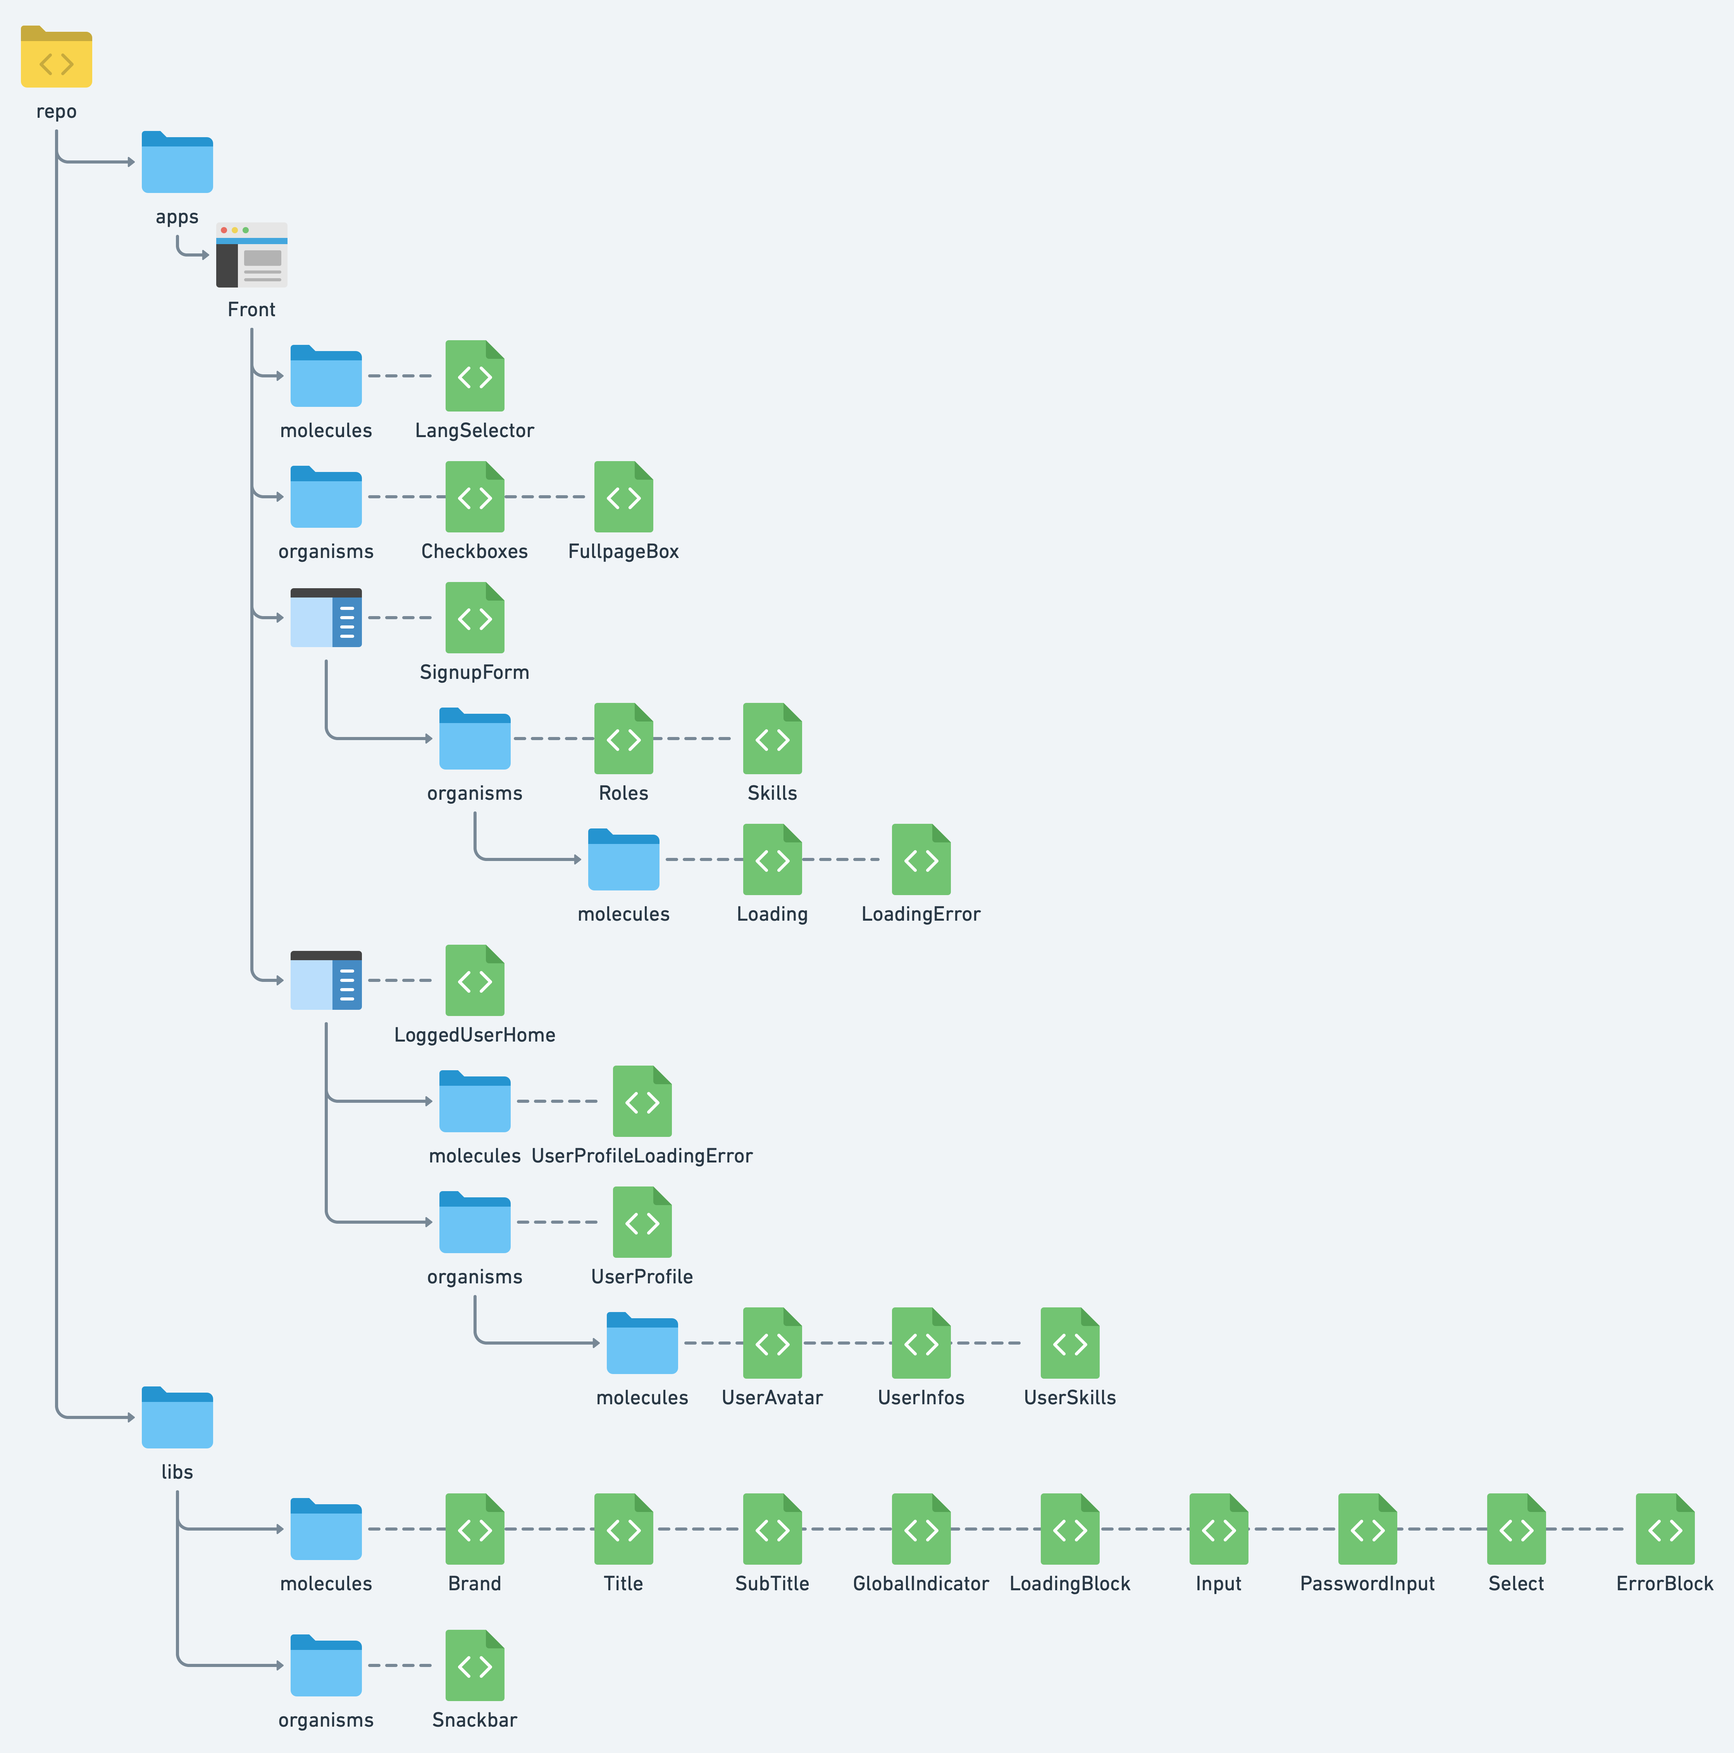
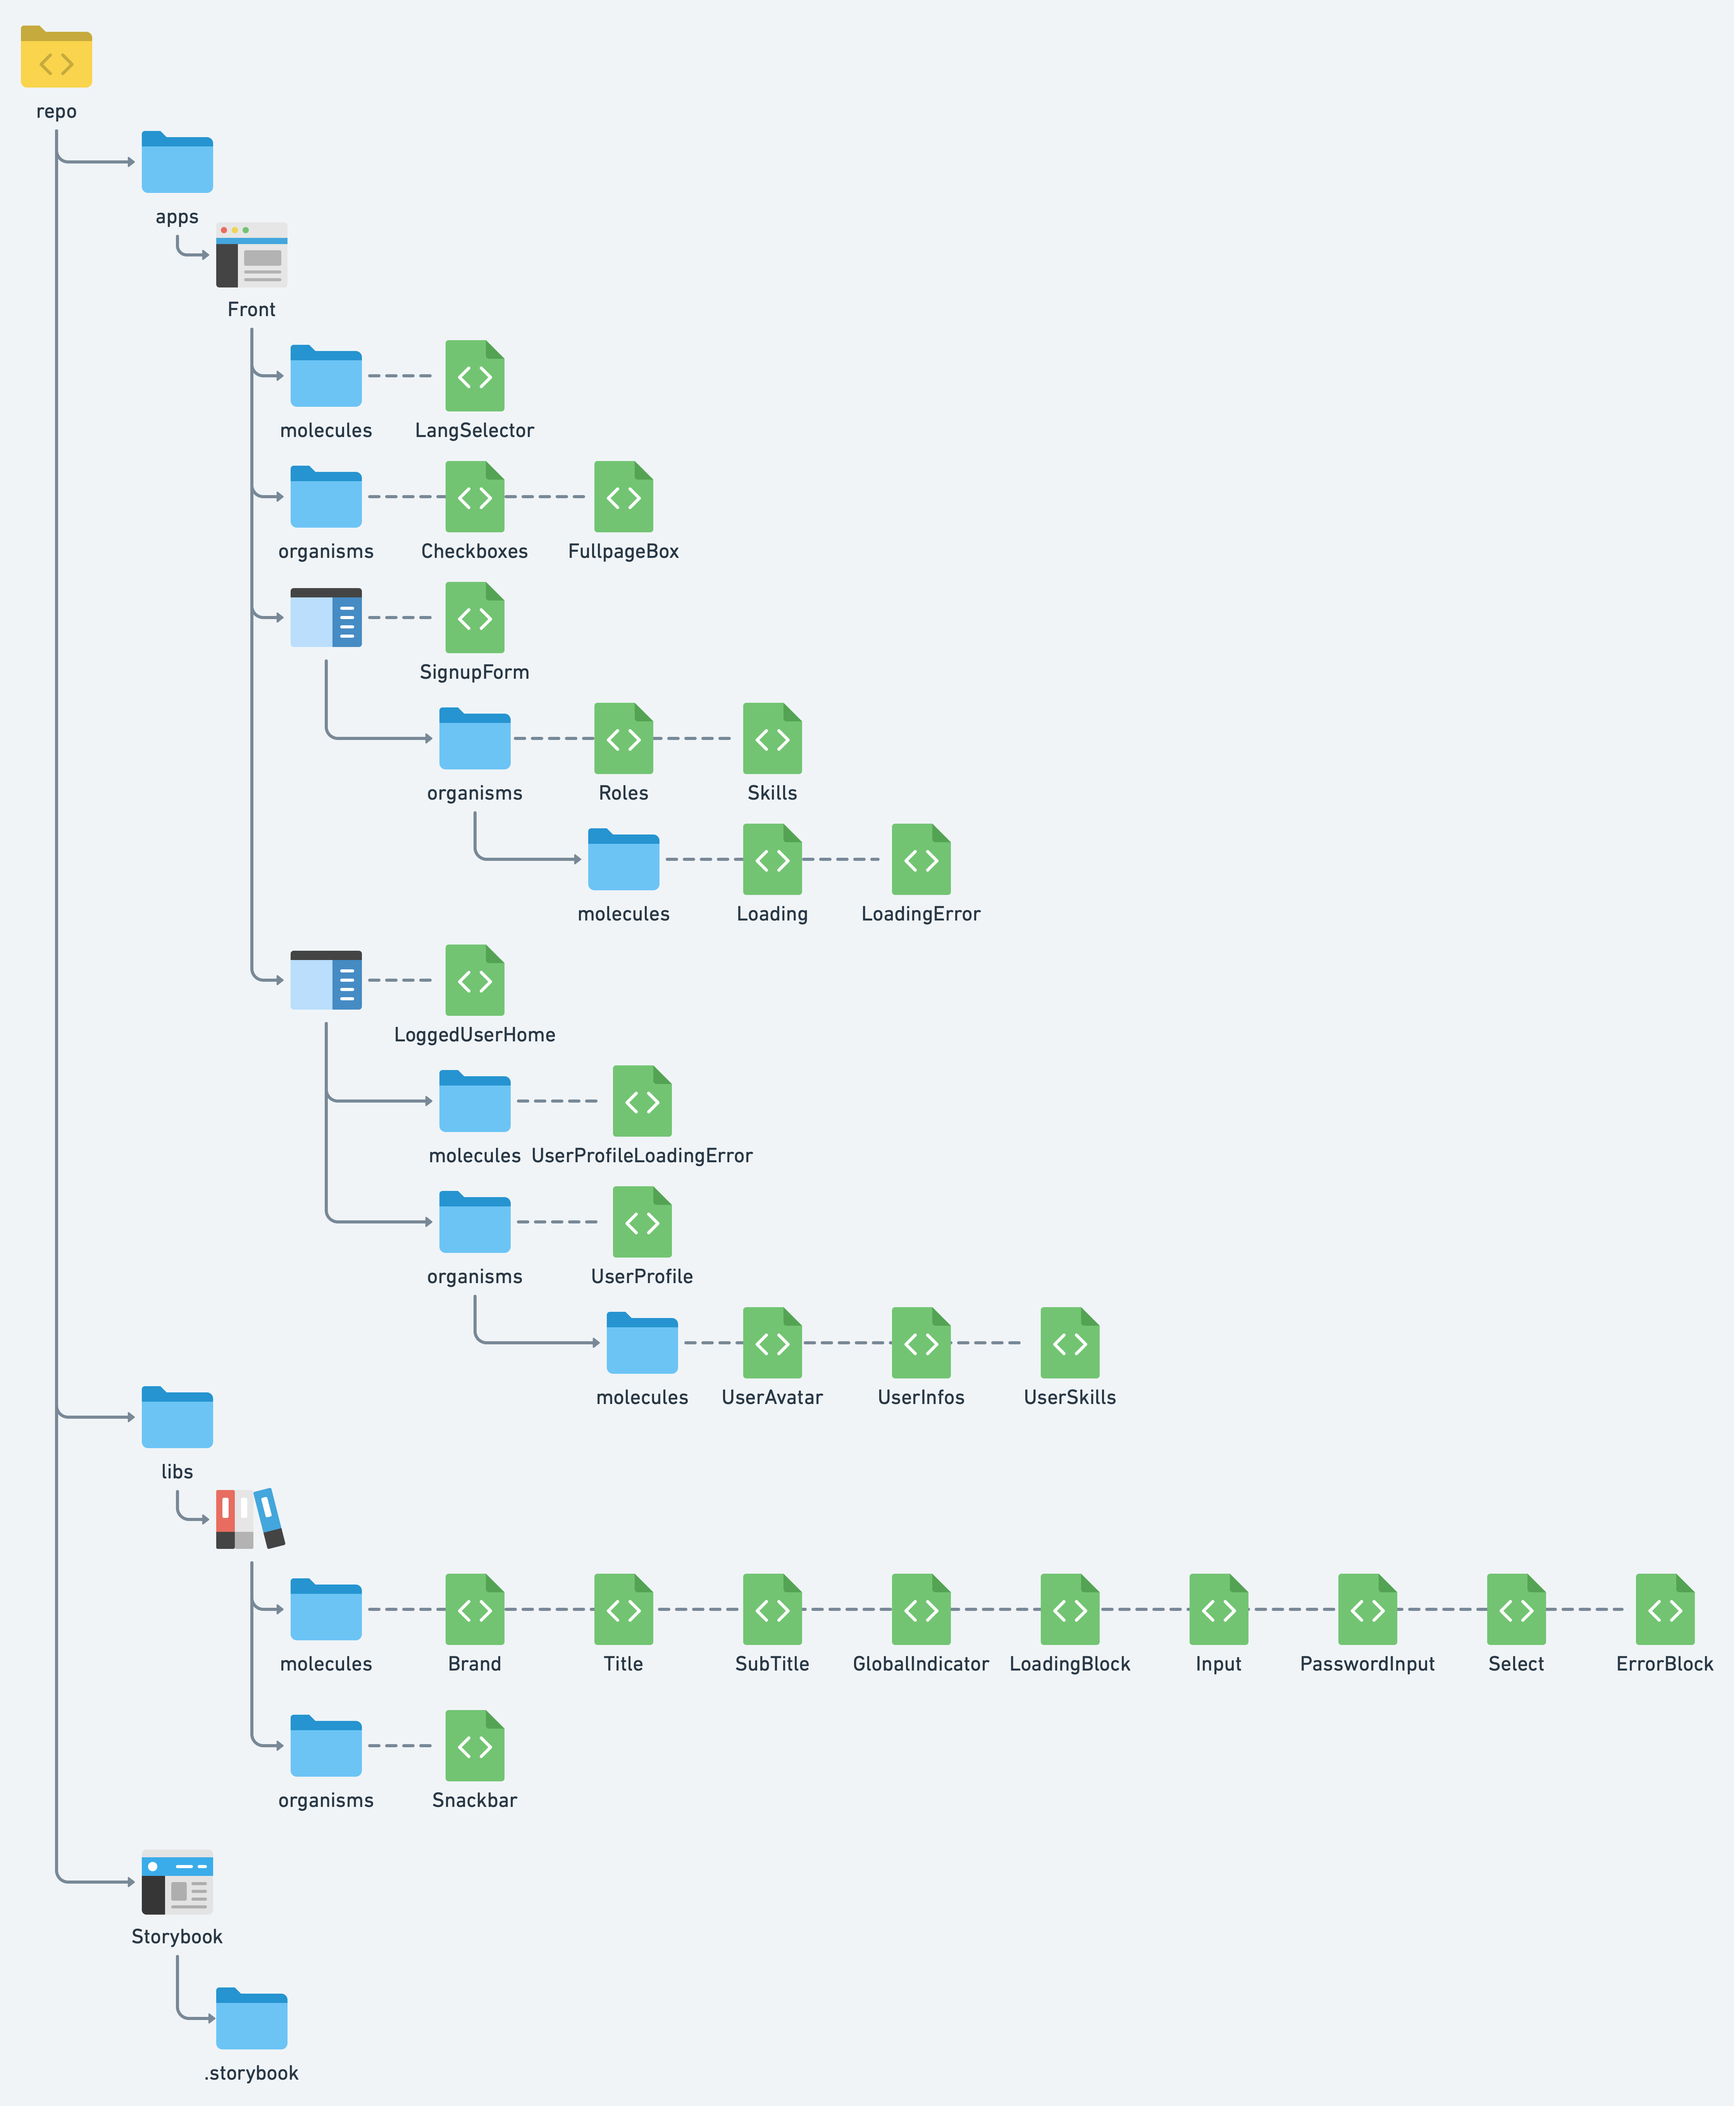
Moving structure image

diff --git a/docs/frontend-architecture.md b/docs/frontend-architecture.md
@@ -48,20 +48,28 @@ Let's reflect on the classification we want to use and how it would impact our f
 
 ## 🔶 Defining a decision tree to identify components types
 
-With this in mind, we can now think about a decision tree to identify the type of every component. We will also take advantage of this to define a few things:
+With this in mind, we can now think about a decision tree to identify the type of one component. We will also take advantage of this to define a few things:
 
 - What should and shouldn't be on storybook.
 - Which testing strategy should be used for each category.
 
 ![Diagram](./assets/components-categorization.png)
 
-## 🔶 Onward to the intricacies of a multi-apps environment
+## 🔶 Multi-apps environment
 
-Yes! We want to have several frontend applications. And we want to have shared components that we may reuse in our apps. `nx` will help us in that regard:
+Splitting our frontend in several apps can help us a lot:
 
-- We will be using several next apps and it may occur that we end up with components only being used in one app.
-- Shared components can be defined in a library.
-- We will need a library embedding storybook config, so that we only expose a single storybook for all our apps.
+- Cognitive load mitigation: the bigger a codebase is, the harder it is to maintain. It's easier for a developer when the context he has to insert into is small.
+- Apples and tomatoes: Our product may be made of modules with distinct structure (even if they share the same system design). For example we may have an admin app that is a dashboard while the customers app is mobile oriented.
+- Decoupled deployments: Multi apps means distinct deployments, which is awesome for flexibility.
+
+Now, several apps means shared code. `nx` will help us in that regard. For example, we may have three levels of components, from specific to generic:
+
+- Some components will be only used in one single story (no reusability).
+- Some components will be specific to a single app (should be reused only within the app).
+- Finally, some components will be highly generic and reused accross several apps.
+
+We will also need a library embedding storybook config, so that we only expose a single storybook for all our apps.
 
 ![Diagram](./assets/nx-app-architecture.png)
 
@@ -96,9 +104,7 @@ Our shared library may use assets, like images or icons. These files will be sto
     // ...
     "build": {
       "executor": "@nrwl/next:build",
-      "outputs": [
-        "{options.outputPath}"
-      ],
+      "outputs": ["{options.outputPath}"],
       "defaultConfiguration": "production",
       "options": {
         "root": "apps/front",
@@ -149,9 +155,7 @@ Let's first define a `build` and `dev` script in `project.json`:
     // Building storybook
     "build": {
       "executor": "@nrwl/storybook:build",
-      "outputs": [
-        "{options.outputPath}"
-      ],
+      "outputs": ["{options.outputPath}"],
       "options": {
         "uiFramework": "@storybook/react",
         "outputPath": "dist/apps/storybook",
@@ -175,15 +179,20 @@ Then, let's take all the story files in all our apps or our libs, and let's add 
 /** @type {import("@storybook/react/types/index").StorybookConfig} */
 const storybookMainConfig = {
   // ...
-  stories: [
-    '../../../../**/*.stories.mdx',
-    '../../../../**/*.stories.tsx',
-  ],
+  stories: ['../../../../**/*.stories.mdx', '../../../../**/*.stories.tsx'],
   staticDirs: [
-    '../../../../apps/front/public', 
-    '../../../../libs/front/components/assets'
+    '../../../../apps/front/public',
+    '../../../../libs/front/components/assets',
   ],
-}
+};
 
-module.exports = storybookMainConfig
+module.exports = storybookMainConfig;
 ```
+
+# ⚡ A concrete example: this repo
+
+This repo contains one frontend application serving two pages: a signup page and user profile page. We have components at various levels: user story, application and generic.
+
+Here is a structure diagram.
+
+![Diagram](./assets/components.png)

diff --git a/README.md b/README.md
@@ -22,8 +22,6 @@ Here is a little POC to help our team move forward with our stack! ✨
 
 ## 🚀 [Main frontend app](https://mui-rhf-sandbox.vercel.app) | [Storybook](https://mui-rhf-sandbox-storybook.vercel.app)
 
-![Diagram](./docs/assets/components.png)
-
 ## ⚡ Getting started
 
 ```bash
